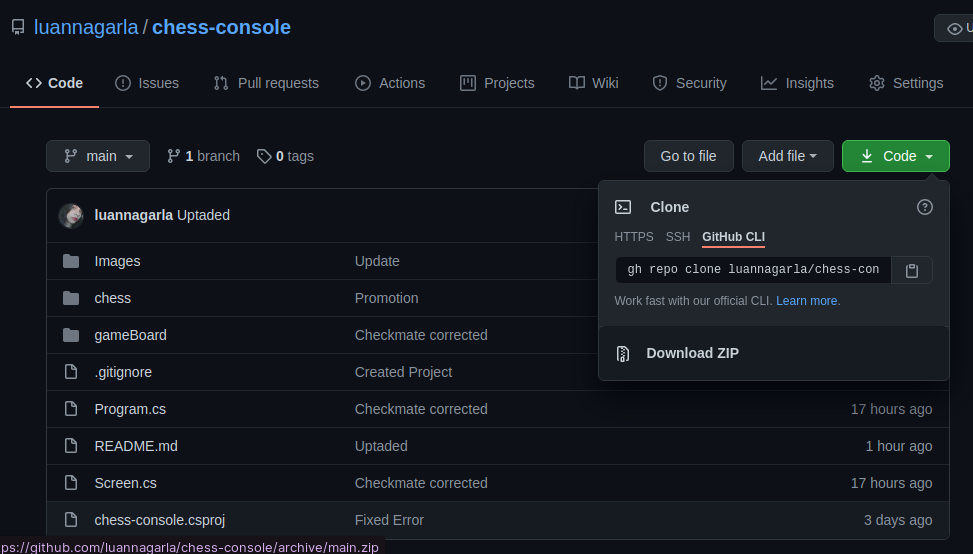
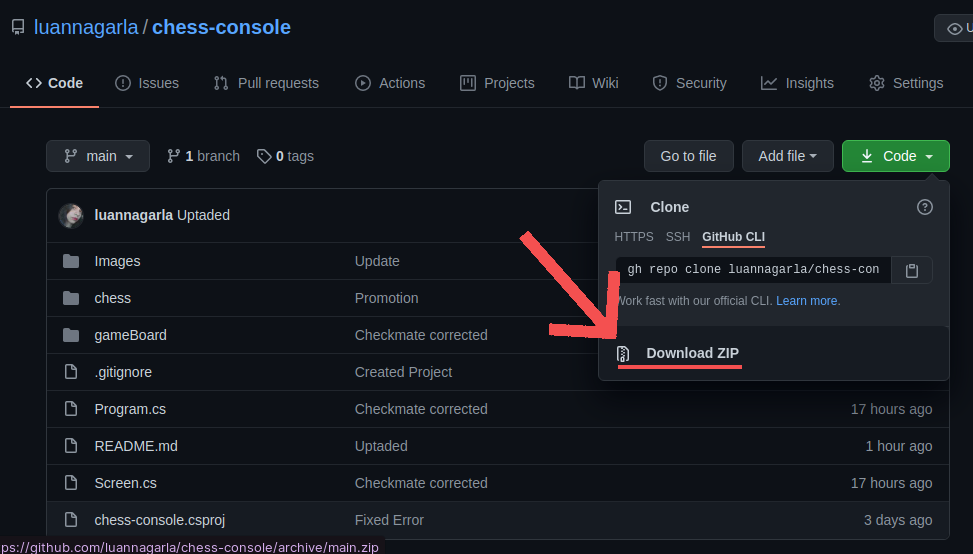
Uptaded

Changed region(s): [[0.5242, 0.3989, 0.6475, 0.6137], [0.6475, 0.6444, 0.7708, 0.6751]]

diff --git a/Screen.cs b/Screen.cs
@@ -110,7 +110,7 @@ namespace chess_console
 
         public static PositionChess readPositionChess()
         {
-            string s = Console.ReadLine();
+            string s = Console.ReadLine().ToLower();
             char column = s[0];
 
             int line = int.Parse(s[1] + "");

diff --git a/README.md b/README.md
@@ -17,18 +17,18 @@ O jogador indica a peça que deseja mover em _origin_, no estilo batalha naval, 
 ![chess-console](Images/chess-console.png)
 
 # COMO TESTAR :joystick:
-## Passo 01
-Faça o download deste repositório como zip e descompacte no lugar desejado.
+## Passo 01 - Baixar a pasta do repositório
+Volte ao topo da página, faça o download deste repositório como zip e descompacte, de preferência em _Downloads_.
 ![Download](Images/download.png)
 
-## Passo 02
-Primeiro, certifique-se que o DOTNET está instalado!
+## Passo 02 - Baixar o dotnet
+Certifique-se que o DOTNET está instalado!
 
-(<a href="https://docs.microsoft.com/pt-br/dotnet/core/install/linux-ubuntu">Clique aqui para baixá-lo (LINUX-UBUNTU)</a>).
+<a href="https://docs.microsoft.com/pt-br/dotnet/core/install/linux-ubuntu">Clique aqui para baixá-lo (LINUX-UBUNTU)</a>
 
-(<a href="https://docs.microsoft.com/pt-br/dotnet/core/install/linux-ubuntu">Clique aqui para baixá-lo (WINDOWS)</a>).
+<a href="https://docs.microsoft.com/pt-br/dotnet/core/install/linux-ubuntu">Clique aqui para baixá-lo (WINDOWS)</a>
 
-## Passo 03
+## Passo 03 - Rodar utilizando o dotnet
 ### No linux
 Após realizar o download do repositório e dotnet, abra a pasta correspondente. Estando com a mesma aberta, clique com o botão direito, seguidamente, em "Abrir terminal aqui", digite "dotnet run".
 
@@ -39,12 +39,24 @@ Após realizar o download do repositório e dotnet, abra a pasta correspondente.
 Está pronto para começar a jogar!
 
 ### No windows
-Após realizar o download da pasta e do dotnet, abra o pront de comando e digite manualmente, utilizando o comando _cd_, o diretório em que a pasta se encontra (Exemplo: _cd Desktop\chess-console-main\chess-console-main_), pressione enter e, por fim, escreva "dotnet Run".
+Após realizar o download da pasta e do dotnet, abra o pront de comando e digite, manualmente, o diretório onde a pasta se encontra.
 
-![windows-diretory](Images/windows-diretory.jpeg)
+_Se você não sabe qual é o diretório, clique com o botão direito em cima da pasta, depois em "propriedades", no campo "Local" o mesmo vai estar descrito._
 
-![windows-console](Images/windows-console.jpeg)
+![properties](Images/path.png)
+
+Sabendo qual diretório será escrito, no pront de comando, digite _cd_ + espaço + o diretório + nome da pasta (Como nesse exemplo: _cd Downloads\chess-console-main_), lembrando que NÃO tem necessidade de escrever "C:\Users\Usuário", uma vez que o terminal já indica estar nesse diretório.
+
+![windows-diretory](Images/windows-directory.jpeg)
+
+No exemplo acima, é possível notar que o terminal já se encontrava em "C:\Users\Usuário", sendo necessário apenas adicionar "cd Donwloads", conforme indicado na propriedade da pasta, e o nome da pasta que foi descompactada.
+Seguidamente, pressione enter e, por fim, escreva, em minúsculo, "dotnet run".
+
+![windows-console](Images/dotnetrun.jpeg)
 
 Está pronto para começar a jogar!
+
+
+_Pode ocorrer de aparecer algumas informações sobre o dotnet ao solicitar "dotnet run", se isso ocorrer aperte tecla direcional para cima e enter._
 
 ##### Você também pode escolher a IDE de sua preferência.
